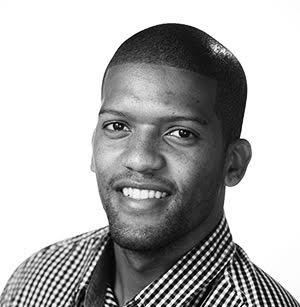
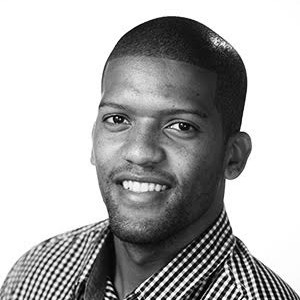
Fix errors, resize images and update sass

diff --git a/en/our-work/index.html b/en/our-work/index.html
@@ -8,7 +8,8 @@ title: Our work
 		<p>
 			Here's a taste of some other things we've been working on recently.
 		</p>
-		{% for project in site.data.projects.past | sort:'date' reversed %}
+	    {% assign projects=site.data.projects.past|sort:'date'|reverse %}
+		{% for project in project %}
 			{% assign multi_three=forloop.index0|modulo:3  %}
 			{% if multi_three == 0 %}<div class="row">{% endif %}
 			<div class="p2pu-project col-xs-8 col-md-4">

diff --git a/en/about.html b/en/about.html
@@ -54,7 +54,9 @@ title: About P2PU
 		<h4>
 			Here's a taste of some other things we've been working on.
 		</h4>
-		{% for project in site.data.projects.past | sort:'date' reversed %}
+
+	    {% assign projects=site.data.projects.past|sort:'date' %}
+		{% for project in projects %}
 			{% assign multi_three=forloop.index0|modulo:3  %}
 			{% if multi_three == 0 %}<div class="row">{% endif %}
 			<div class="p2pu-project col-xs-8 col-md-4">

diff --git a/_sass/_custom.scss b/_sass/_custom.scss
@@ -1,3 +1,8 @@
+.people-img {
+    max-width: 150px;
+    max-height: 150px;
+}
+
 .thumbnail {
 	background-color: $gray-snow;
 	position: relative;

diff --git a/assets/images/people/README.md b/assets/images/people/README.md
@@ -1,0 +1,1 @@
+Any images added to this directory should be square and no bigger than 300x300
